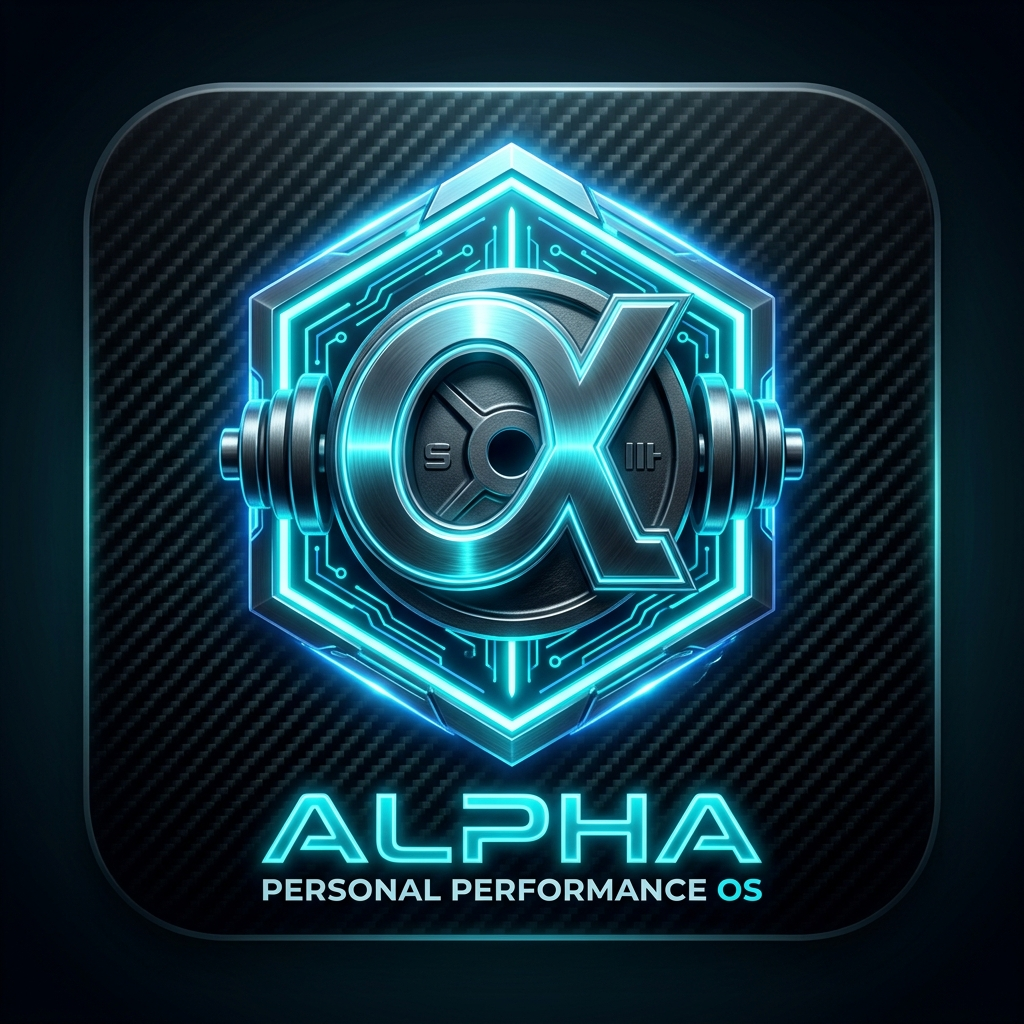
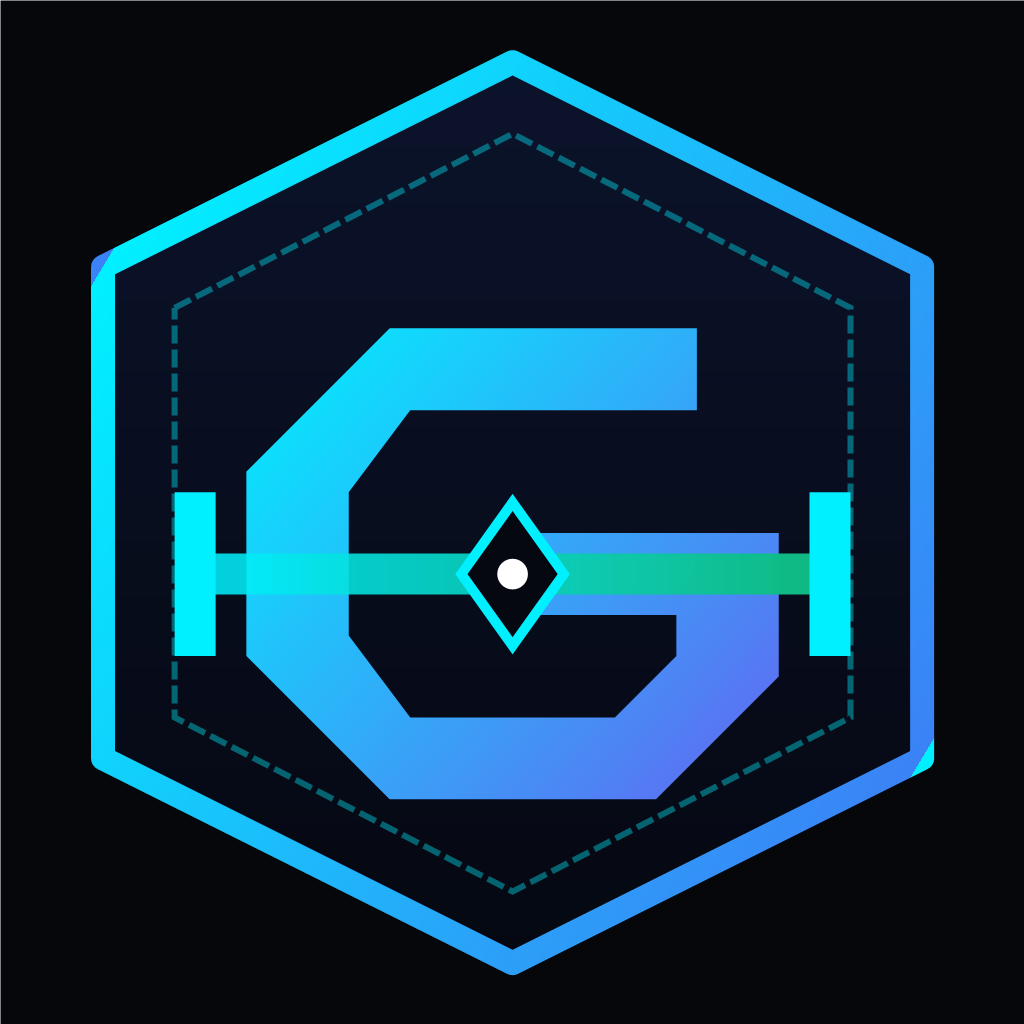
fix(gravity): resolve 16 verified UI/UX, responsive layout and Android defect audit issues

diff --git a/apps/mobile/src/screens/workout/WorkoutSessionScreen.tsx b/apps/mobile/src/screens/workout/WorkoutSessionScreen.tsx
@@ -652,11 +652,18 @@ export const WorkoutSessionScreen: React.FC<WorkoutSessionScreenProps> = ({
         </TouchableOpacity>
 
         <View style={styles.headerCenter}>
-          <Text style={styles.sessionCategory}>{(workout?.name || 'WORKOUT').toUpperCase()} · SESSION</Text>
+          <Text style={styles.sessionCategory} numberOfLines={1} ellipsizeMode="tail">
+            {(workout?.name || 'WORKOUT').toUpperCase()} · SESSION
+          </Text>
           <Text style={styles.elapsedTimer}>{formatTimer(elapsedSeconds)}</Text>
         </View>
 
-        <TouchableOpacity style={styles.finishTopBtn} onPress={handleFinishWorkout}>
+        <TouchableOpacity
+          style={styles.finishTopBtn}
+          onPress={handleFinishWorkout}
+          activeOpacity={0.7}
+          hitSlop={{ top: 8, bottom: 8, left: 8, right: 8 }}
+        >
           <Text style={styles.finishTopText}>FINISH</Text>
         </TouchableOpacity>
       </View>
@@ -740,7 +747,11 @@ export const WorkoutSessionScreen: React.FC<WorkoutSessionScreenProps> = ({
                       {groupExercises.length} Movements In Rotation
                     </Text>
                   </View>
-                  <View style={styles.groupExercisesSequence}>
+                  <ScrollView
+                    horizontal
+                    showsHorizontalScrollIndicator={false}
+                    contentContainerStyle={styles.groupExercisesSequence}
+                  >
                     {groupExercises.map((ge, gIdx) => {
                       const isCurrentInGroup = ge.id === currentExercise.id;
                       const hasCompletedCurrentRound = ge.sets[currentRound - 1]?.isCompleted;
@@ -764,7 +775,7 @@ export const WorkoutSessionScreen: React.FC<WorkoutSessionScreenProps> = ({
                         </TouchableOpacity>
                       );
                     })}
-                  </View>
+                  </ScrollView>
                 </View>
               )}
 
@@ -866,7 +877,6 @@ export const WorkoutSessionScreen: React.FC<WorkoutSessionScreenProps> = ({
                     keyboardType="decimal-pad"
                     value={set.actualWeightKg.toString()}
                     onChangeText={(t) => handleUpdateWeight(set.id, t)}
-                    selectTextOnFocus
                   />
                 </View>
 
@@ -879,7 +889,6 @@ export const WorkoutSessionScreen: React.FC<WorkoutSessionScreenProps> = ({
                     placeholder="0"
                     placeholderTextColor="#64748B"
                     onChangeText={(t) => handleUpdateReps(set.id, t)}
-                    selectTextOnFocus
                   />
                 </View>
 
@@ -939,6 +948,7 @@ export const WorkoutSessionScreen: React.FC<WorkoutSessionScreenProps> = ({
             <TouchableOpacity
               style={styles.restMiniBtn}
               onPress={() => setRestSeconds((prev) => prev + 30)}
+              hitSlop={{ top: 10, bottom: 10, left: 10, right: 10 }}
             >
               <Text style={styles.restMiniBtnText}>+30s</Text>
             </TouchableOpacity>
@@ -946,6 +956,7 @@ export const WorkoutSessionScreen: React.FC<WorkoutSessionScreenProps> = ({
             <TouchableOpacity
               style={[styles.restMiniBtn, isRestActive && styles.restMiniBtnActive]}
               onPress={() => setIsRestActive((prev) => !prev)}
+              hitSlop={{ top: 10, bottom: 10, left: 10, right: 10 }}
             >
               <Text style={[styles.restMiniBtnText, isRestActive && styles.restMiniBtnTextActive]}>
                 {isRestActive ? 'PAUSE' : 'START'}
@@ -959,6 +970,7 @@ export const WorkoutSessionScreen: React.FC<WorkoutSessionScreenProps> = ({
                 setRestSeconds(0);
                 setTimerState('WORKING');
               }}
+              hitSlop={{ top: 10, bottom: 10, left: 10, right: 10 }}
             >
               <Text style={styles.restMiniBtnText}>SKIP</Text>
             </TouchableOpacity>
@@ -1118,6 +1130,7 @@ const styles = StyleSheet.create({
     borderBottomWidth: 1,
     borderBottomColor: 'rgba(255, 255, 255, 0.06)',
     marginBottom: 8,
+    gap: 8,
   },
   exitBtn: {
     width: 36,
@@ -1128,6 +1141,7 @@ const styles = StyleSheet.create({
     borderColor: Theme.colors.border,
     alignItems: 'center',
     justifyContent: 'center',
+    flexShrink: 0,
   },
   exitIcon: {
     color: Theme.colors.textMuted,
@@ -1135,7 +1149,11 @@ const styles = StyleSheet.create({
     fontWeight: '700',
   },
   headerCenter: {
+    flex: 1,
     alignItems: 'center',
+    justifyContent: 'center',
+    paddingHorizontal: 6,
+    overflow: 'hidden',
   },
   sessionCategory: {
     fontSize: 9,
@@ -1143,6 +1161,8 @@ const styles = StyleSheet.create({
     color: Theme.colors.cyanGlow,
     fontWeight: '800',
     letterSpacing: 1,
+    textAlign: 'center',
+    maxWidth: '100%',
   },
   elapsedTimer: {
     fontSize: 18,
@@ -1150,6 +1170,7 @@ const styles = StyleSheet.create({
     fontWeight: '900',
     color: Theme.colors.textPrimary,
     marginTop: 2,
+    textAlign: 'center',
   },
   finishTopBtn: {
     paddingHorizontal: 12,
@@ -1158,6 +1179,7 @@ const styles = StyleSheet.create({
     borderWidth: 1,
     borderColor: Theme.colors.emeraldSuccess,
     borderRadius: Theme.borderRadius.sm,
+    flexShrink: 0,
   },
   finishTopText: {
     color: Theme.colors.emeraldSuccess,
@@ -1250,7 +1272,7 @@ const styles = StyleSheet.create({
   },
   content: {
     paddingVertical: 8,
-    paddingBottom: 36,
+    paddingBottom: 64,
     gap: 14,
   },
   exerciseHeroCard: {
@@ -1422,6 +1444,7 @@ const styles = StyleSheet.create({
     borderColor: Theme.colors.border,
     marginHorizontal: 4,
     paddingHorizontal: 4,
+    minWidth: 68,
   },
   numericInput: {
     fontSize: 14,

diff --git a/apps/mobile/App.tsx b/apps/mobile/App.tsx
@@ -679,7 +679,7 @@ function MainNavigator() {
           {activeSubView === 'EXERCISE_DETAIL' && (
             <ExerciseDetailScreen
               exercise={selectedExercise}
-              onBack={() => setActiveSubView(null)}
+              onBack={navigateBackSubView}
             />
           )}
 
@@ -726,42 +726,42 @@ function MainNavigator() {
 
           {activeSubView === 'BODY_METRICS' && (
             <BodyMetricsScreen
-              onBack={() => setActiveSubView(null)}
+              onBack={navigateBackSubView}
               onOpenLogModal={() => setLogMetricModalVisible(true)}
             />
           )}
 
           {activeSubView === 'GOALS' && (
-            <GoalsScreen onBack={() => setActiveSubView(null)} />
+            <GoalsScreen onBack={navigateBackSubView} />
           )}
 
           {activeSubView === 'MILESTONES' && (
-            <MilestonesScreen onBack={() => setActiveSubView(null)} />
+            <MilestonesScreen onBack={navigateBackSubView} />
           )}
 
           {activeSubView === 'EXERCISE_LIBRARY' && (
             <ExerciseLibraryScreen
-              onBack={() => setActiveSubView(null)}
+              onBack={navigateBackSubView}
               onSelectExercise={(ex) => {
                 setSelectedExercise(ex);
-                setActiveSubView('EXERCISE_DETAIL');
+                navigateToSubView('EXERCISE_DETAIL');
               }}
             />
           )}
 
           {activeSubView === 'FOOD_LIBRARY' && (
-            <FoodLibraryScreen onBack={() => setActiveSubView(null)} />
+            <FoodLibraryScreen onBack={navigateBackSubView} />
           )}
 
           {activeSubView === 'CALENDAR' && (
-            <CalendarHistoryScreen onBack={() => setActiveSubView(null)} />
+            <CalendarHistoryScreen onBack={navigateBackSubView} />
           )}
 
           {activeSubView === 'PROFILE_VIEW' && (
             <ProfileScreen
-              onBack={() => setActiveSubView(null)}
-              onNavigateToSettings={() => setActiveSubView('SETTINGS')}
-              onNavigateToIntegrations={() => setActiveSubView('INTEGRATIONS')}
+              onBack={navigateBackSubView}
+              onNavigateToSettings={() => navigateToSubView('SETTINGS')}
+              onNavigateToIntegrations={() => navigateToSubView('INTEGRATIONS')}
             />
           )}
 

diff --git a/apps/mobile/src/components/AlphaLogo.tsx b/apps/mobile/src/components/AlphaLogo.tsx
@@ -68,9 +68,9 @@ export const AlphaLogo: React.FC<AlphaLogoProps> = ({ size = 68, glow = true }) 
         />
 
         <G>
-          {/* Athletic Apex Alpha A - Left Wing */}
+          {/* Gravity Performance G Power Glyph */}
           <Path
-            d="M 50 20 L 26 76 L 35 76 L 43 57 L 50 39 L 57 57 L 65 76 L 74 76 Z"
+            d="M 68 32 L 38 32 C 30 32, 24 38, 24 46 L 24 64 C 24 72, 30 78, 38 78 L 64 78 C 72 78, 76 72, 76 64 L 76 52 L 48 52 L 48 58 L 68 58 L 68 64 C 68 68, 66 70, 62 70 L 40 70 C 35 70, 32 67, 32 62 L 32 48 C 32 43, 35 40, 40 40 L 68 40 Z"
             fill="url(#alphaNeonGrad)"
           />
 
@@ -79,8 +79,8 @@ export const AlphaLogo: React.FC<AlphaLogoProps> = ({ size = 68, glow = true }) 
             x="20"
             y="54"
             width="60"
-            height="5"
-            rx="2.5"
+            height="4"
+            rx="2"
             fill="url(#alphaBarGrad)"
           />
 
@@ -89,7 +89,7 @@ export const AlphaLogo: React.FC<AlphaLogoProps> = ({ size = 68, glow = true }) 
             x="17"
             y="49"
             width="4"
-            height="15"
+            height="14"
             rx="1.5"
             fill="#00F0FF"
           />
@@ -99,21 +99,21 @@ export const AlphaLogo: React.FC<AlphaLogoProps> = ({ size = 68, glow = true }) 
             x="79"
             y="49"
             width="4"
-            height="15"
+            height="14"
             rx="1.5"
             fill="#00F0FF"
           />
 
           {/* Center Precision Power Diamond */}
           <Polygon
-            points="50,49 54,56.5 50,64 46,56.5"
+            points="50,49 54,56 50,63 46,56"
             fill="#050811"
             stroke="#00F0FF"
             strokeWidth="1.5"
           />
 
           {/* Diamond Power Core Light */}
-          <Circle cx="50" cy="56.5" r="1.8" fill="#00F0FF" />
+          <Circle cx="50" cy="56" r="1.8" fill="#00F0FF" />
         </G>
       </Svg>
     </View>

diff --git a/apps/mobile/src/screens/home/HomeScreen.tsx b/apps/mobile/src/screens/home/HomeScreen.tsx
@@ -82,7 +82,7 @@ export const HomeScreen: React.FC<HomeScreenProps> = ({
     user?.email?.split('@')[0]?.replace(/^\w/, (c: string) => c.toUpperCase()) ||
     'Athlete';
 
-  const currentDateFormatted = new Date().toLocaleDateString('en-US', {
+  const currentDateFormatted = new Date().toLocaleDateString(undefined, {
     weekday: 'long',
     month: 'long',
     day: 'numeric',
@@ -116,10 +116,22 @@ export const HomeScreen: React.FC<HomeScreenProps> = ({
             </Text>
             <View style={styles.onlineDot} />
           </TouchableOpacity>
-          <View>
+          <View style={styles.headerInfoCol}>
             <Text style={styles.greetingLabel}>{timeGreeting}</Text>
-            <Text style={styles.athleteNameText}>{athleteName}</Text>
-            <Text style={styles.dateText}>{currentDateFormatted}</Text>
+            <Text
+              style={styles.athleteNameText}
+              numberOfLines={1}
+              ellipsizeMode="tail"
+            >
+              {athleteName}
+            </Text>
+            <Text
+              style={styles.dateText}
+              numberOfLines={1}
+              ellipsizeMode="tail"
+            >
+              {currentDateFormatted}
+            </Text>
           </View>
         </View>
 
@@ -893,6 +905,12 @@ const styles = StyleSheet.create({
     alignItems: 'center',
     gap: 12,
     flex: 1,
+    marginRight: 8,
+  },
+  headerInfoCol: {
+    flex: 1,
+    flexShrink: 1,
+    justifyContent: 'center',
   },
   avatarBtn: {
     width: 44,

diff --git a/apps/mobile/src/screens/profile/SettingsScreen.tsx b/apps/mobile/src/screens/profile/SettingsScreen.tsx
@@ -195,7 +195,9 @@ export const SettingsScreen: React.FC<SettingsScreenProps> = ({ onBack }) => {
         {/* App Version Build Footer */}
         <View style={styles.versionFooter}>
           <Text style={styles.versionTitle}>GRAVITY PERFORMANCE OS</Text>
-          <Text style={styles.versionSub}>Client v2.4.0 · Native Kernel Build 4208</Text>
+          <Text style={styles.versionSub}>
+            Client v{updateInfo.runtimeVersion || '1.0.0'} · Release Channel {updateInfo.channel || 'Production'}
+          </Text>
           <Text style={styles.versionSub}>Stitch Architecture Release</Text>
         </View>
       </ScrollView>

diff --git a/apps/mobile/src/screens/onboarding/ProfileOnboardingScreen.tsx b/apps/mobile/src/screens/onboarding/ProfileOnboardingScreen.tsx
@@ -110,7 +110,12 @@ export const ProfileOnboardingScreen: React.FC<ProfileOnboardingScreenProps> = (
         onBack={onBack}
       />
 
-      <ScrollView contentContainerStyle={styles.content} showsVerticalScrollIndicator={false}>
+      <ScrollView
+        contentContainerStyle={styles.content}
+        showsVerticalScrollIndicator={false}
+        keyboardShouldPersistTaps="handled"
+        keyboardDismissMode="on-drag"
+      >
         <Text style={styles.leadText}>
           Your biometric baseline calibrates accurate progressive overload, caloric maintenance, and training volume.
         </Text>

diff --git a/apps/mobile/src/screens/auth/ForgotPasswordScreen.tsx b/apps/mobile/src/screens/auth/ForgotPasswordScreen.tsx
@@ -83,7 +83,7 @@ export const ForgotPasswordScreen: React.FC<ForgotPasswordScreenProps> = ({ onBa
               }}
               autoCapitalize="none"
               keyboardType="email-address"
-              placeholder="athlete@alpha.os"
+              placeholder="athlete@gravity.os"
             />
 
             <View style={styles.actions}>

diff --git a/apps/mobile/src/screens/notifications/NotificationCenterScreen.tsx b/apps/mobile/src/screens/notifications/NotificationCenterScreen.tsx
@@ -304,7 +304,7 @@ const styles = StyleSheet.create({
     alignItems: 'center',
     justifyContent: 'space-between',
     paddingHorizontal: 16,
-    paddingTop: 56,
+    paddingTop: 12,
     paddingBottom: 12,
     borderBottomWidth: 1,
     borderBottomColor: Theme.colors.border,
